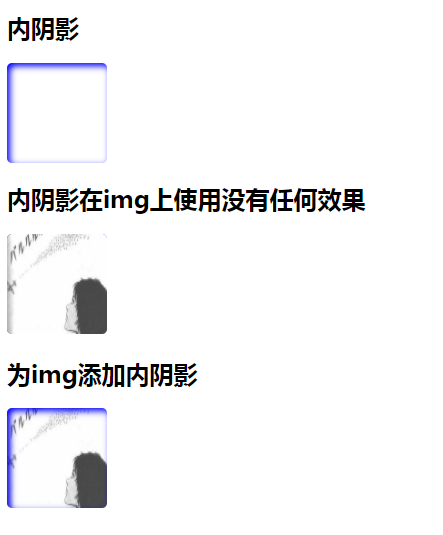
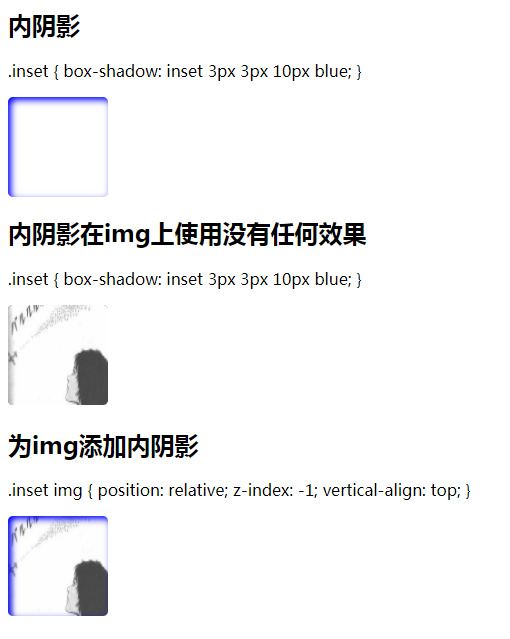
finish

Changed region(s): [[0.0, 0.2991, 0.9391, 0.9869], [0.0, 0.0, 0.7043, 0.1794]]

diff --git a/effects/demo/css/textShadow/index2.html b/effects/demo/css/textShadow/index2.html
@@ -1,0 +1,182 @@
+<!DOCTYPE html>
+<html lang="en">
+<head>
+    <meta charset="UTF-8">
+    <title>立体文本</title>
+    <style>
+        .container {
+        }
+        .container > div > div {
+            color: #f7edf7
+        }
+        .container p {
+            color: black;
+        }
+        .container > div {
+            width: 500px;
+            border: 1px solid #000B43;
+            margin: 10px;
+        }
+        .box1 {
+            text-shadow: 0 0 0 rgb(188, 178, 188);
+        }
+        .box2 {
+            text-shadow: 1px 0 0 rgb(173, 163, 173);
+        }
+        .box3 {
+            text-shadow: 2px 0 0 rgb(157, 147, 157);
+        }
+        .box4 {
+            text-shadow: 3px 0 0 rgb(142, 132, 142);
+        }
+        .box5 {
+            text-shadow: 4px 0 0 rgb(126, 116, 126);
+        }
+        .box6 {
+            text-shadow: 5px 0 0 rgb(111, 101, 111);
+        }
+        .box7 {
+            text-shadow: 6px 0 0 rgb(95, 85, 95);
+        }
+        .box8 {
+            text-shadow: 7px 0 0 rgb(79, 69, 79);
+        }
+        .box9 {
+            text-shadow: 8px 0 0 rgba(0, 0, 0, 0.35);
+        }
+        .box10 {
+            text-shadow: 8px 0 1px rgba(0, 0, 0, 0.5);
+        }
+        .box11 {
+            text-shadow: 0 0 7px rgba(0, 0, 0, 0.2);
+        }
+        .box12 {
+            text-shadow: 0 0 0 rgb(188, 178, 188),
+            1px 0 0 rgb(173, 163, 173),
+            2px 0 0 rgb(157, 147, 157),
+            3px 0 0 rgb(142, 132, 142),
+            4px 0 0 rgb(126, 116, 126),
+            5px 0 0 rgb(111, 101, 111),
+            6px 0 0 rgb(95, 85, 95),
+            7px 0 0 rgb(79, 69, 79),
+            8px 0 0 rgba(0, 0, 0, 0.35),
+            8px 0 1px rgba(0, 0, 0, 0.5),
+            0 0 7px rgba(0, 0, 0, 0.2);
+        }
+    </style>
+</head>
+<body>
+
+<div class="container">
+    <div>
+        <p>
+            .box1 {
+            text-shadow: 0 0 0 rgb(188, 178, 188);
+            }
+        </p>
+        <div class="box1">0 deg</div>
+    </div>
+    <div>
+        <p>
+            .box2 {
+            text-shadow: 1px 0 0 rgb(173, 163, 173);
+            }
+        </p>
+        <div class="box2">0 deg</div>
+    </div>
+    <div>
+        <p>
+            .box3 {
+            text-shadow: 2px 0 0 rgb(157, 147, 157);
+            }
+        </p>
+        <div class="box3">0 deg</div>
+    </div>
+    <div>
+        <p>
+            .box4 {
+            text-shadow: 3px 0 0 rgb(142, 132, 142);
+            }
+        </p>
+        <div class="box4">0 deg</div>
+    </div>
+    <div>
+        <p>
+            .box5 {
+            text-shadow: 4px 0 0 rgb(126, 116, 126);
+            }
+        </p>
+        <div class="box5">0 deg</div>
+    </div>
+    <div>
+        <p>
+            .box6 {
+            text-shadow: 5px 0 0 rgb(111, 101, 111);
+            }
+        </p>
+        <div class="box6">0 deg</div>
+    </div>
+    <div>
+        <p>
+            .box7 {
+            text-shadow: 6px 0 0 rgb(95, 85, 95);
+            }
+        </p>
+        <div class="box7">0 deg</div>
+    </div>
+    <div>
+        <p>
+            .box8 {
+            text-shadow: 7px 0 0 rgb(79, 69, 79);
+            }
+        </p>
+        <div class="box8">0 deg</div>
+    </div>
+    <div>
+        <p>
+            .box9 {
+            text-shadow: 8px 0 0 rgba(0, 0, 0, 0.35);
+            }
+        </p>
+        <div class="box9">0 deg</div>
+    </div>
+    <div>
+        <p>
+            .box10 {
+            text-shadow: 8px 0 1px rgba(0, 0, 0, 0.5);
+            }
+        </p>
+        <div class="box10">0 deg</div>
+    </div>
+    <div>
+        <p>
+            .box11 {
+            text-shadow: 0 0 7px rgba(0, 0, 0, 0.2);
+            }
+        </p>
+        <div class="box11">0 deg</div>
+    </div>
+</div>
+<div class="container">
+    <div>
+        <h2>最终版</h2>
+        <p>
+            .box12 {
+            text-shadow: 0 0 0 rgb(188, 178, 188),
+            1px 0 0 rgb(173, 163, 173),
+            2px 0 0 rgb(157, 147, 157),
+            3px 0 0 rgb(142, 132, 142),
+            4px 0 0 rgb(126, 116, 126),
+            5px 0 0 rgb(111, 101, 111),
+            6px 0 0 rgb(95, 85, 95),
+            7px 0 0 rgb(79, 69, 79),
+            8px 0 0 rgba(0, 0, 0, 0.35),
+            8px 0 1px rgba(0, 0, 0, 0.5),
+            0 0 7px rgba(0, 0, 0, 0.2);
+            }
+        </p>
+        <div class="box12">0 deg</div>
+    </div>
+</div>
+</body>
+</html>

diff --git a/effects/demo/css/boxShadow/eg1.html b/effects/demo/css/boxShadow/eg1.html
@@ -5,8 +5,8 @@
     <title>单/双边阴影效果</title>
     <style>
         .wrapper {
-            display: inline-block;
             margin-right:10px;
+            display: inline-block;
         }
         .box-shadow {
             width: 100px;
@@ -45,18 +45,38 @@
     <h2>单边阴影效果</h2>
     <div class="wrapper">
         <h3>上边阴影</h3>
+        <p>
+            .top {
+            box-shadow: 0 -2px 0 red;
+            }
+        </p>
         <div class="box-shadow top"></div>
     </div>
     <div class="wrapper">
         <h3>右边阴影</h3>
+        <p>
+            .right {
+            box-shadow: 2px 0 0 green;
+            }
+        </p>
         <div class="box-shadow right"></div>
     </div>
     <div class="wrapper">
         <h3>下边阴影</h3>
+        <p>
+            .bottom {
+            box-shadow: 0 2px 0 yellow;
+            }
+        </p>
         <div class="box-shadow bottom"></div>
     </div>
     <div class="wrapper">
         <h3>左边阴影</h3>
+        <p>
+            .left {
+            box-shadow: -2px 0 0 blue;
+            }
+        </p>
         <div class="box-shadow left"></div>
     </div>
 </div>
@@ -65,18 +85,38 @@
     <h2>双边阴影效果</h2>
     <div class="wrapper">
         <h3>左上边阴影</h3>
+        <p>
+            .leftTop {
+            box-shadow: -2px -2px 0 black;
+            }
+        </p>
         <div class="box-shadow leftTop"></div>
     </div>
     <div class="wrapper">
         <h3>左下边阴影</h3>
+        <p>
+            .leftBottom {
+            box-shadow: -2px 2px 0 orange;
+            }
+        </p>
         <div class="box-shadow leftBottom"></div>
     </div>
     <div class="wrapper">
         <h3>右上边阴影</h3>
+        <p>
+            .rightTop {
+            box-shadow: 2px -2px 0 pink;
+            }
+        </p>
         <div class="box-shadow rightTop"></div>
     </div>
     <div class="wrapper">
         <h3>右下边阴影</h3>
+        <p>
+            .rightBottom {
+            box-shadow: 2px 2px 0 purple;
+            }
+        </p>
         <div class="box-shadow rightBottom"></div>
     </div>
 </div>

diff --git a/effects/demo/css/boxShadow/eg4.html b/effects/demo/css/boxShadow/eg4.html
@@ -24,16 +24,33 @@
 <body>
 <div>
     <h2>内阴影 </h2>
+    <p>
+        .inset {
+        box-shadow: inset 3px 3px 10px blue;
+        }
+    </p>
     <div class="box inset"></div>
 </div>
 
 <div>
     <h2>内阴影在img上使用没有任何效果</h2>
+    <p>
+        .inset {
+        box-shadow: inset 3px 3px 10px blue;
+        }
+    </p>
     <img class="box inset" src="01.jpg">
 </div>
 
 <div>
     <h2>为img添加内阴影</h2>
+    <p>
+        .inset img {
+        position: relative;
+        z-index: -1;
+        vertical-align: top;
+        }
+    </p>
     <div class="inset box">
         <img class="box" src="01.jpg">
     </div>

diff --git a/effects/demo/css/boxShadow/eg2.html b/effects/demo/css/boxShadow/eg2.html
@@ -26,16 +26,31 @@
 <body>
 <div>
     <h2>1. 只设置阴影模糊半径和阴影颜色</h2>
+    <p>
+        .eg1 {
+        box-shadow: 0 0 10px blue;
+        }
+    </p>
     <div class="box-shadow eg1"></div>
 </div>
 
 <div>
     <h2>2. 只设置扩展半径和阴影颜色</h2>
+    <p>
+        .eg2 {
+        box-shadow: 0 0 10px 10px blue;
+        }
+    </p>
     <div class="box-shadow eg3"></div>
 </div>
 
 <div>
     <h2>3. 添加了扩展半径</h2>
+    <p>
+        .eg3 {
+        box-shadow: 0 0 0 10px blue;
+        }
+    </p>
     <div class="box-shadow eg2"></div>
 </div>
 

diff --git a/effects/demo/css/boxShadow/eg5.html b/effects/demo/css/boxShadow/eg5.html
@@ -24,6 +24,21 @@
 <body>
 <div>
     <h2>多层阴影</h2>
+    <p>
+        .box-shadow { <br>
+            width: 100px; <br>
+            height: 100px; <br>
+            margin: 40px; <br>
+            border-radius: 5px; <br>
+            box-shadow: 0 0 0 1px red,<br>
+            0 0 0 5px blue,<br>
+            0 0 0 8px green,<br>
+            0 0 0 12px yellow,<br>
+            0 0 0 16px orange,<br>
+            0 0 0 20px #06c,<br>
+            0 0 0 24px lime;<br>
+        }
+    </p>
     <div class="box-shadow"></div>
 </div>
 

diff --git a/_posts/studynote/css/2017-11-07-css-text-shadow.md b/_posts/studynote/css/2017-11-07-css-text-shadow.md
@@ -38,7 +38,21 @@ E {filter:shadow(color=颜色值，Direction=数值, Strength = 数值)}
 
 ## 二、demo - 制作立体文本
 
+### 2.1 完整demo
+
 > * 点击打开[demo](/effects/demo/css/textShadow/index.html)
 
 ![text-shadow](/styles/images/css/text-shadow/text-shadow-04.png)
+
+### 2.2 拆解 0 deg
+
+> * 点击打开[demo](/effects/demo/css/textShadow/index2.html)
+
+![text-shadow](/styles/images/css/text-shadow/text-shadow-05.png)
+
+![text-shadow](/styles/images/css/text-shadow/text-shadow-06.png)
+
+![text-shadow](/styles/images/css/text-shadow/text-shadow-07.png)
+
+> * 从上述图片，你会发现，其实 `0 deg` 的最终效果就是一个个 `0 deg` 阴影叠加起来而已！！
 

diff --git a/_posts/studynote/css/2017-11-07-css-box-shadow.md b/_posts/studynote/css/2017-11-07-css-box-shadow.md
@@ -40,6 +40,8 @@ box-shadow: none | [inset x-offset y-offset blur-radius spread-radius color]
 
 ![box-shadow](/styles/images/css/box-shadow/box-shadow-04.png)
 
+![box-shadow](/styles/images/css/box-shadow/box-shadow-11.png)
+
 > * 从这个 `demo` 可以得出以下结论：
 
 ![box-shadow](/styles/images/css/box-shadow/box-shadow-05.png)

diff --git a/_posts/originalNote/nodejs/2017-11-17-nodejs-static-sources.md b/_posts/originalNote/nodejs/2017-11-17-nodejs-static-sources.md
@@ -8,8 +8,6 @@ tag: node.js
 * content
 {:toc}
 
-> * 参考资料：
-
 <!-- more -->
 
 
